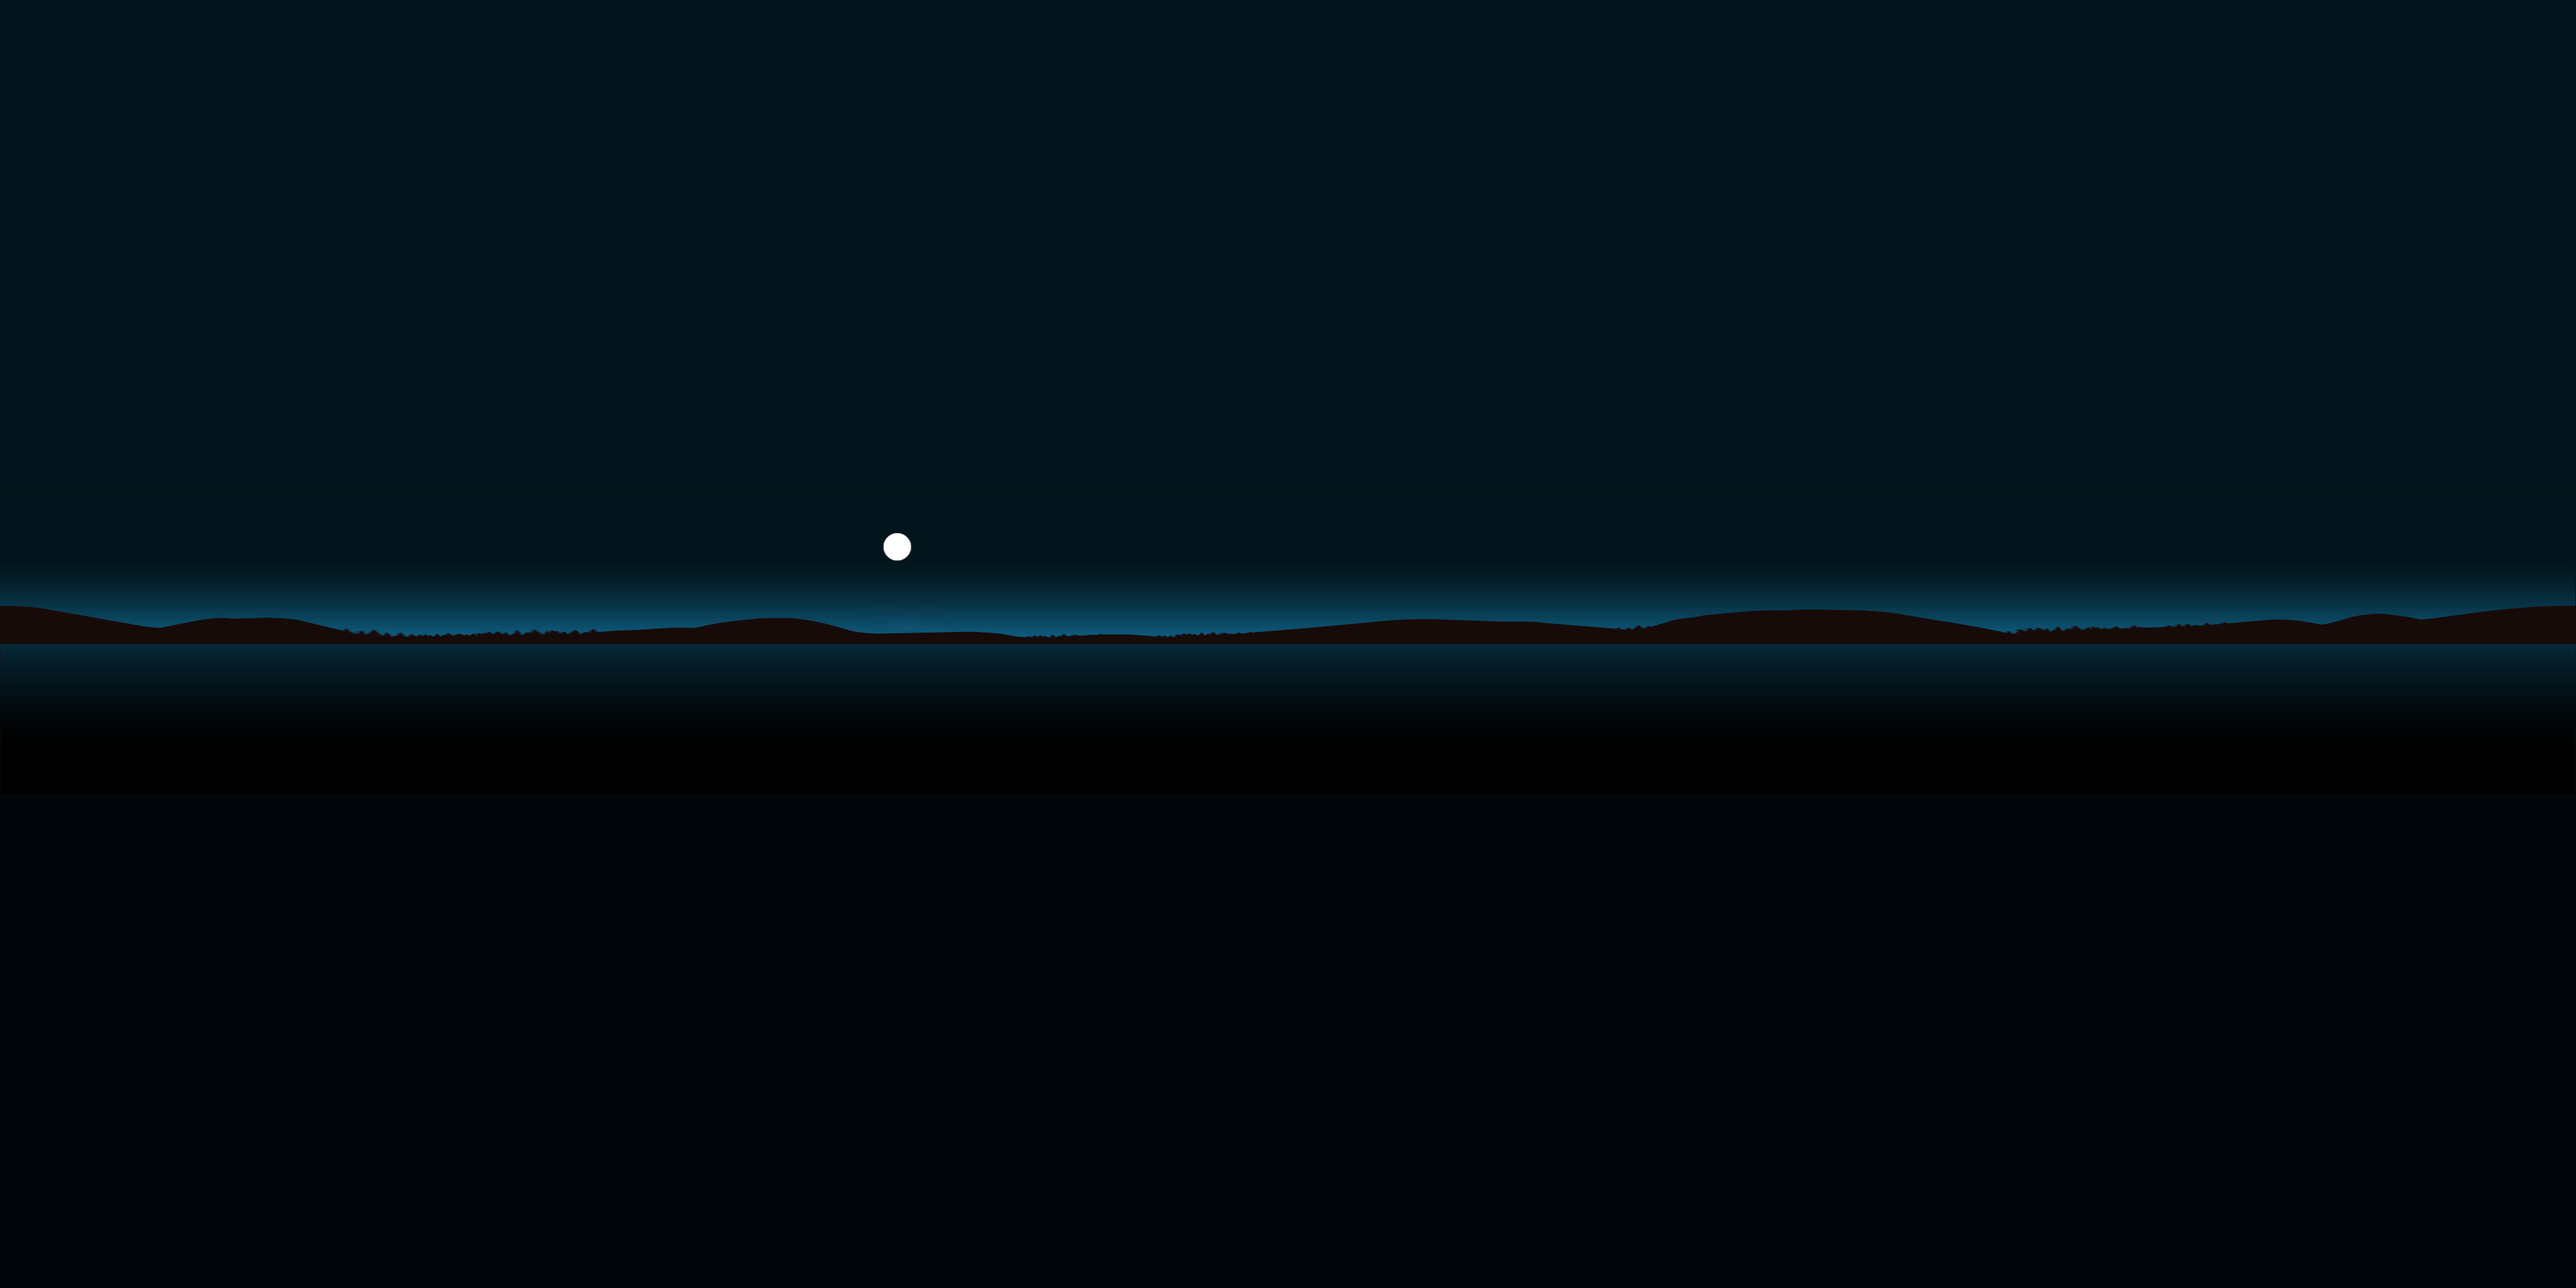
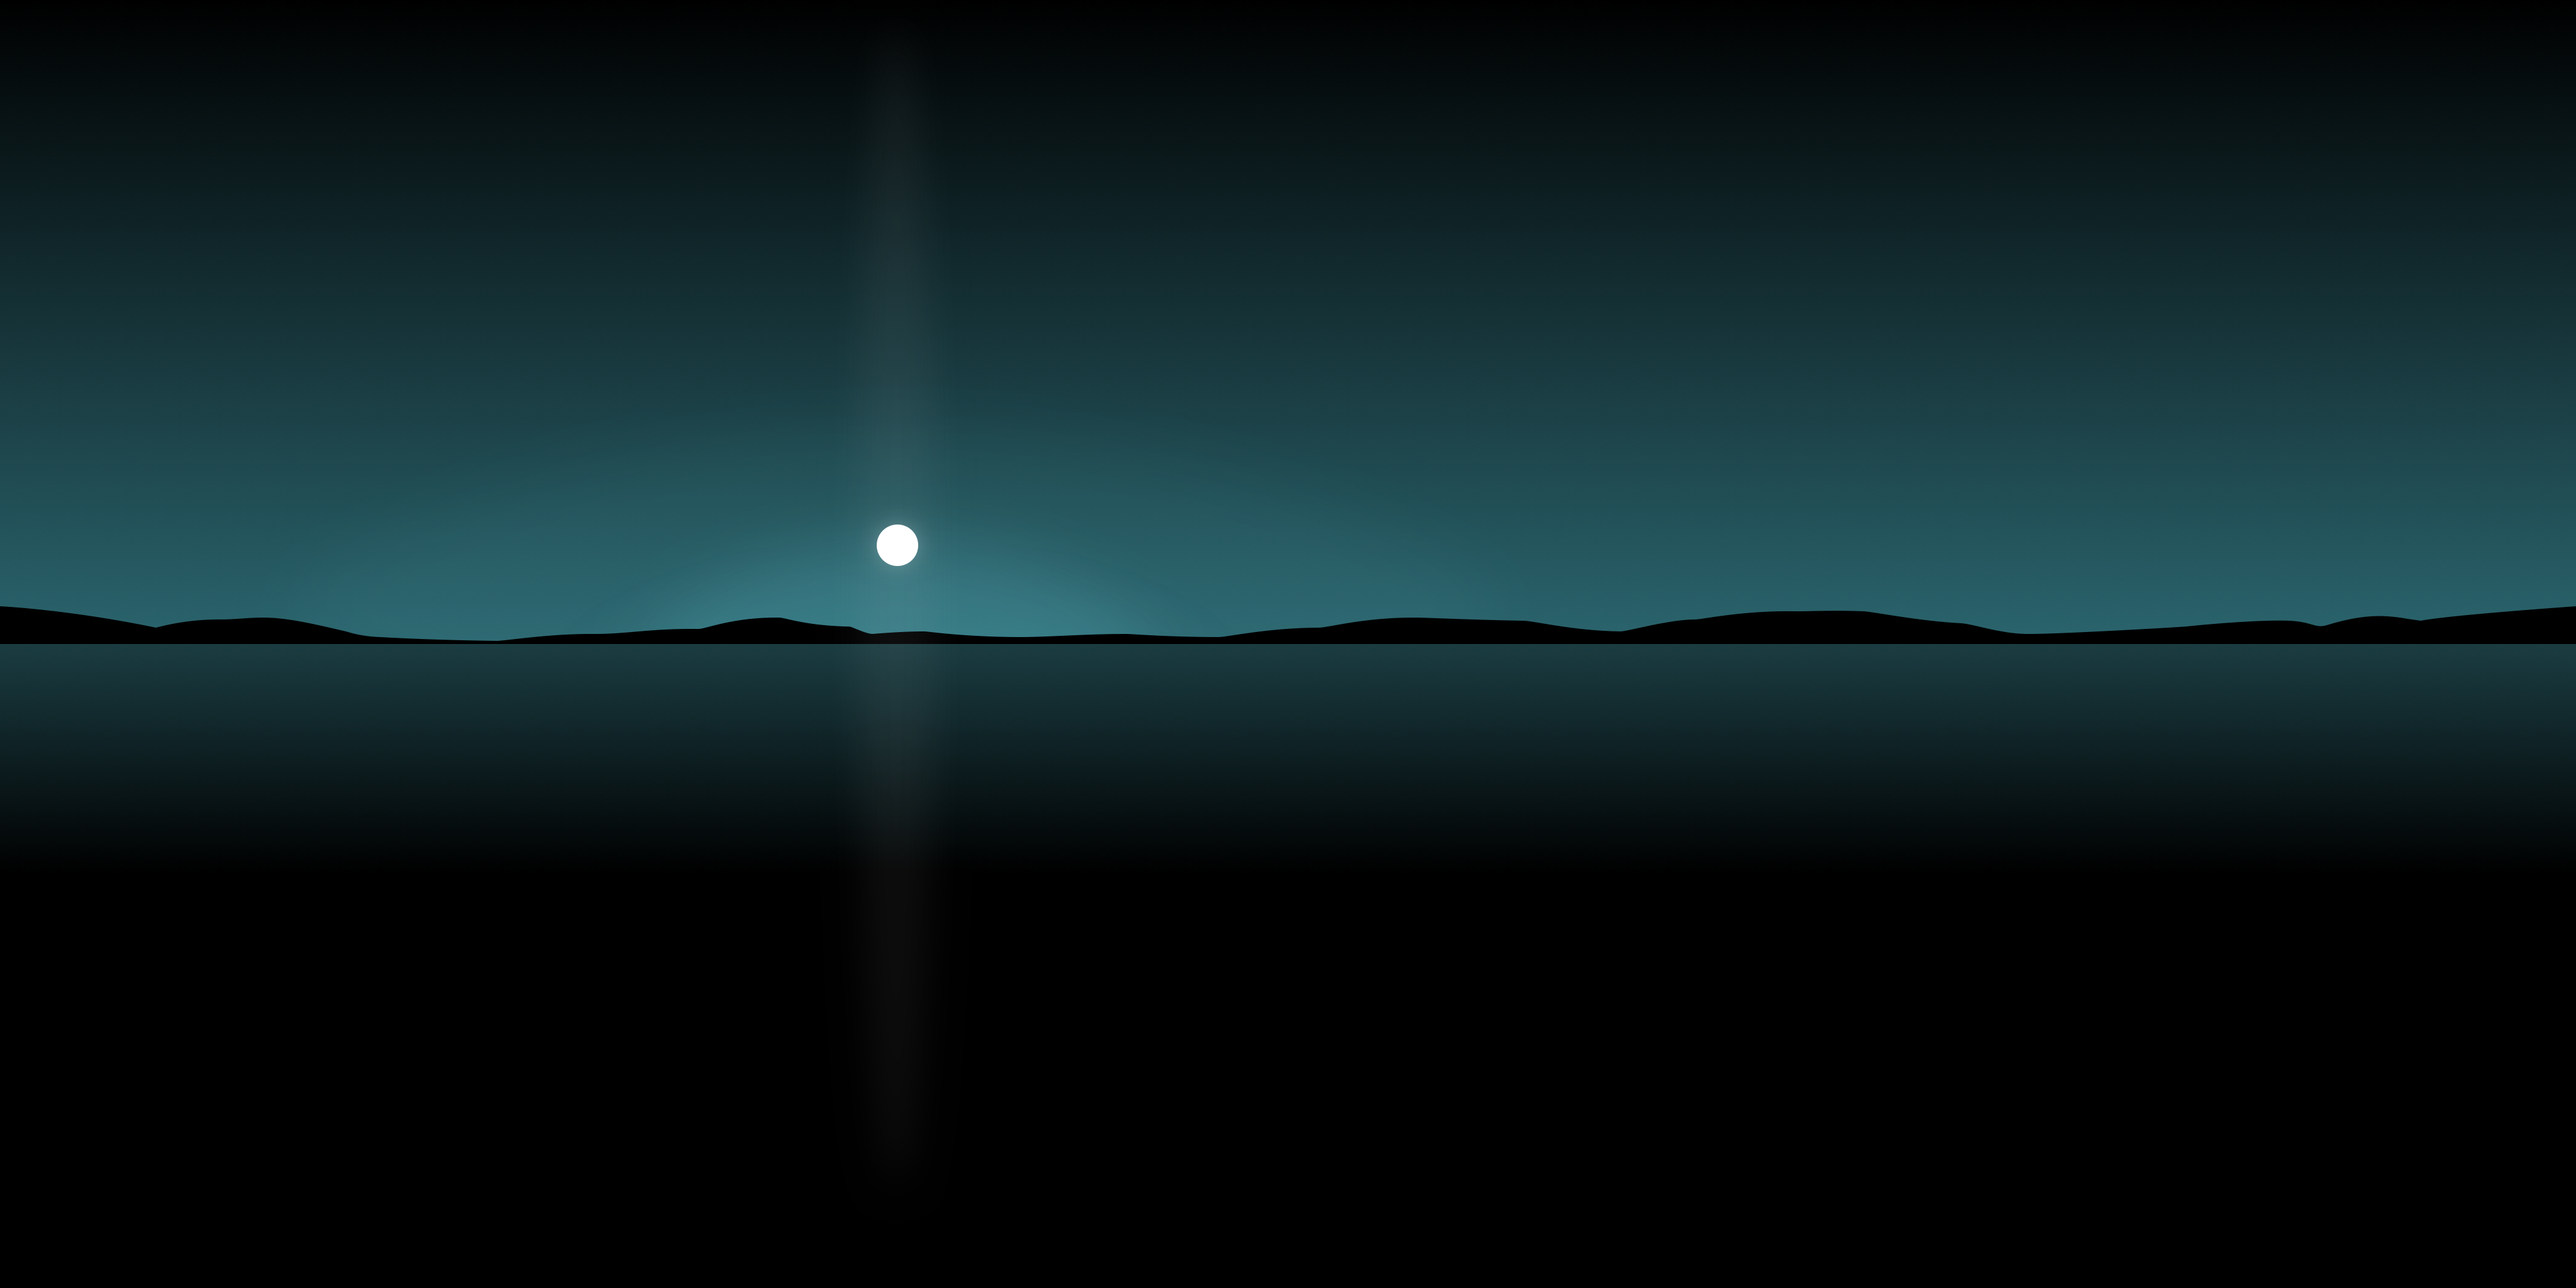
New archipelago.

diff --git a/main.js b/main.js
@@ -37,210 +37,183 @@ loader.load( 'beaches.obj', function ( obj ) {
 
 function runner() {
 
-var water, clock;
+  var water, clock;
 
-var params = {
-  color: '#eeeeef',
-  scale: 1,
-  flowX: 20,
-  flowY: 9
-};
+  var params = {
+    color: '#eeeeef',
+    scale: 100,
+    flowX: 20,
+    flowY: 20
+  };
 
-clock = new THREE.Clock();
+  clock = new THREE.Clock();
 
-sceneCube = new THREE.Scene();
+  sceneCube = new THREE.Scene();
 
-var textureLoader = new THREE.TextureLoader();
-textureEquirec = textureLoader.load( "skythin.png" );
-textureEquirec.mapping = THREE.EquirectangularReflectionMapping;
-textureEquirec.magFilter = THREE.LinearFilter;
-textureEquirec.minFilter = THREE.LinearMipMapLinearFilter;
-textureEquirec.encoding = THREE.sRGBEncoding;
+  var textureLoader = new THREE.TextureLoader();
+  textureEquirec = textureLoader.load( "skythin.png" );
+  textureEquirec.mapping = THREE.EquirectangularReflectionMapping;
+  textureEquirec.magFilter = THREE.LinearFilter;
+  textureEquirec.minFilter = THREE.LinearMipMapLinearFilter;
+  textureEquirec.encoding = THREE.sRGBEncoding;
 
-var equirectShader = THREE.ShaderLib[ "equirect" ];
+  var equirectShader = THREE.ShaderLib[ "equirect" ];
 
-var equirectMaterial = new THREE.ShaderMaterial( {
-  fragmentShader: equirectShader.fragmentShader,
-  vertexShader: equirectShader.vertexShader,
-  uniforms: equirectShader.uniforms,
-  depthWrite: false,
-  side: THREE.BackSide
-} );
+  var equirectMaterial = new THREE.ShaderMaterial( {
+    fragmentShader: equirectShader.fragmentShader,
+    vertexShader: equirectShader.vertexShader,
+    uniforms: equirectShader.uniforms,
+    depthWrite: false,
+    side: THREE.BackSide
+  } );
 
-equirectMaterial.uniforms[ "tEquirect" ].value = textureEquirec;
+  equirectMaterial.uniforms[ "tEquirect" ].value = textureEquirec;
 
-Object.defineProperty( equirectMaterial, 'map', {
+  Object.defineProperty( equirectMaterial, 'map', {
 
-  get: function () {
+    get: function () {
 
-    return this.uniforms.tEquirect.value;
+      return this.uniforms.tEquirect.value;
 
-  }
+    }
 
-} );
+  } );
 
-cubeMesh = new THREE.Mesh( new THREE.SphereBufferGeometry( 4000, 32, 32), equirectMaterial);
-cubeMesh.material = equirectMaterial;
-cubeMesh.visible = true;
+  cubeMesh = new THREE.Mesh( new THREE.SphereBufferGeometry( 4000, 32, 32), equirectMaterial);
+  cubeMesh.material = equirectMaterial;
+  cubeMesh.visible = true;
 
-var material = new THREE.MeshPhysicalMaterial( {
-  color: 0x040404,
-  metalness: 0.25,
-  roughness: 0.1,
-  clearCoat: 0.41 ,
-  clearCoatRoughness: 0.3 ,
-  reflectivity: 0.4,
-  envMap: textureEquirec
-});
-
-var material2 = new THREE.MeshPhysicalMaterial( {
-  color: 0x606060,
-  metalness: 0.05,
-  roughness: 0.9,
-  clearCoat: 0.0,
-  clearCoatRoughness: 0.2,
-  reflectivity: 0.1,
-  envMap: textureEquirec
-});
-
-const N = 256;
-const gData = {
-  nodes: [...Array(N).keys()].map(i => ({ id: i })),
-  links: [...Array(N).keys()]
-  .filter(id => id)
-  .map(id => ({
-    source: id,
-    target: Math.round(Math.random() * (id-1))
-  }))
-};
-
-
-
-const graph = ForceGraph3D()
-
-(document.getElementById('graph-3d'))
-  .graphData(gData)
-  .onNodeHover(node => document.getElementById('graph-3d').style.cursor = node ? 'pointer' : null)
-  .backgroundColor("#000000")
-  .showNavInfo(false)
-  .linkVisibility(false)
-  .onNodeClick(node => {
-    // Aim at node from outside it
-    const distance = 40;
-    const distRatio = 1 + distance/Math.hypot(node.x, node.y, node.z);
-
-    graph.cameraPosition(
-      { x: node.x * distRatio, y: node.y * distRatio, z: node.z * distRatio }, // new position
-      node, // lookAt ({ x, y, z })
-      3000  // ms transition duration
-    );
+  var material = new THREE.MeshPhysicalMaterial( {
+    color: 0x010101,
+    metalness: 0.25,
+    roughness: 0.6,
+    clearCoat: 0.41 ,
+    clearCoatRoughness: 0.3 ,
+    reflectivity: 0.2,
+    envMap: textureEquirec
   });
 
-var zNear = 10;
-var zFar = 3500000;
+  var material2 = new THREE.MeshPhysicalMaterial( {
+    color: 0x606060,
+    metalness: 0.05,
+    roughness: 0.9,
+    clearCoat: 0.0,
+    clearCoatRoughness: 0.2,
+    reflectivity: 0.1,
+    envMap: textureEquirec
+  });
 
-var cam = graph.camera();
-cam.far = (zFar);
-cam.near = (zNear);
-cam.aspect = (window.innerWidth / window.innerHeight);
-cam.updateProjectionMatrix();
-
-
-
-const planeGeometry = new THREE.PlaneGeometry(1000, 1000, 1, 1);
-const planeMaterial = new THREE.MeshLambertMaterial({color: 0xFF0000, side: THREE.DoubleSide});
-// Add the island.
-const mesh = new THREE.Mesh(planeGeometry, material);
-mesh.position.set(-100, -200, -100);
-mesh.rotation.set(0.5 * Math.PI, 0, 0);
-
-var ambient = new THREE.AmbientLight( 0xffffff );
-scene.add( ambient );
-
-var size = 8000;
-var divisions = 100;
-
-var gridHelper = new THREE.GridHelper( size, divisions, 0x999999, 0x999999 );
-var geometry = new THREE.CircleGeometry( 4000, 128 );
-
-var directionalLight = new THREE.DirectionalLight( 0xffffff, 1.0 );
-directionalLight.position.set( 2000 * 2, 500 * 2, -2000 * 2);
-scene.add( directionalLight );
-
-//var circle = new THREE.Mesh( geometry, material );
-//:	var waterGeometry = new THREE.PlaneBufferGeometry( 4000, 4000 );
-/*
-water2 = new THREE.Water( geometry, {
-        color: params.color,
-        scale: params.scale,
-        flowDirection: new THREE.Vector2( params.flowX, params.flowY ),
-        textureWidth: 1024,
-        textureHeight: 1024
-      } );
-
-water2.position.y = -0.01;
-water2.rotation.x = Math.PI *  0.5;
-
-water = new THREE.Water( geometry, {
-        color: params.color,
-        scale: params.scale,
-        flowDirection: new THREE.Vector2( params.flowX, params.flowY ),
-        textureWidth: 1024,
-        textureHeight: 1024
-      } );
-
-water.position.y = 0.01;
-water.rotation.x = Math.PI * - 0.5;
-*/
-water = new THREE.Water(
-  geometry,
-  {
-    textureWidth: 512,
-    textureHeight: 512,
-    waterNormals: new THREE.TextureLoader().load( 'waternormals.jpg', function ( texture ) {
-      texture.wrapS = texture.wrapT = THREE.RepeatWrapping;
-    } ),
-    alpha: 0.5,
-    //sunDirection: //new THREE.Vector3( 2000, 2000, 2000 ).normalize(), //Math.PI/2, //light.position.clone().normalize(),
-    sunDirection: directionalLight.position.clone().normalize(),
-    sunColor: 0xffffff,
-    waterColor: 0x000001,
-    distortionScale: 6.7,
-    fog: scene.fog !== undefined
-  }
-);
-water.rotation.x = - Math.PI / 2;
-
-water2 = new THREE.Water(
-  geometry,
-  {
-    textureWidth: 512,
-    textureHeight: 512,
-    waterNormals: new THREE.TextureLoader().load( 'waternormals.jpg', function ( texture ) {
-      texture.wrapS = texture.wrapT = THREE.RepeatWrapping;
-    } ),
-    alpha: 0.3,
-    sunDirection: directionalLight.position.clone().normalize(),
-    sunColor: 0xffffff,
-    waterColor: 0x000000,
-    distortionScale: 6.7,
-    fog: scene.fog !== undefined
-  }
-);
-water2.position.y = -0.01;
-water2.rotation.x = Math.PI / 2;
+  const N = 256;
+  const gData = {
+    nodes: [...Array(N).keys()].map(i => ({ id: i })),
+    links: [...Array(N).keys()]
+    .filter(id => id)
+    .map(id => ({
+      source: id,
+      target: Math.round(Math.random() * (id-1))
+    }))
+  };
 
 
-//circle.rotation.set( -(Math.PI / 2), 0, 0);
 
-gridHelper.position.set(0,0,0);
+  const graph = ForceGraph3D()
 
-//scene.add( circle );
-//scene.add( gridHelper );
-graph.scene().add(cubeMesh);
-scene.add( water );
-scene.add( water2 );
-scene.fog = new THREE.FogExp2( 0x000000, 0.00005, 20000);
+  (document.getElementById('graph-3d'))
+    .graphData(gData)
+    .onNodeHover(node => document.getElementById('graph-3d').style.cursor = node ? 'pointer' : null)
+    .backgroundColor("#000000")
+    .showNavInfo(false)
+    .linkVisibility(false)
+    .onNodeClick(node => {
+      // Aim at node from outside it
+      const distance = 40;
+      const distRatio = 1 + distance/Math.hypot(node.x, node.y, node.z);
+
+      graph.cameraPosition(
+        { x: node.x * distRatio, y: node.y * distRatio, z: node.z * distRatio }, // new position
+        node, // lookAt ({ x, y, z })
+        3000  // ms transition duration
+      );
+    });
+
+  var zNear = 10;
+  var zFar = 3500000;
+
+  var cam = graph.camera();
+  cam.far = (zFar);
+  cam.near = (zNear);
+  cam.aspect = (window.innerWidth / window.innerHeight);
+  cam.updateProjectionMatrix();
+
+
+
+  const planeGeometry = new THREE.PlaneGeometry(1000, 1000, 1, 1);
+  const planeMaterial = new THREE.MeshLambertMaterial({color: 0xFF0000, side: THREE.DoubleSide});
+  // Add the island.
+  const mesh = new THREE.Mesh(planeGeometry, material);
+  mesh.position.set(-100, -200, -100);
+  mesh.rotation.set(0.5 * Math.PI, 0, 0);
+
+  var ambient = new THREE.AmbientLight( 0xffffff );
+  scene.add( ambient );
+
+  var size = 8000;
+  var divisions = 100;
+
+  var gridHelper = new THREE.GridHelper( size, divisions, 0x999999, 0x999999 );
+  var geometry = new THREE.CircleGeometry( 4000, 128 );
+
+  var directionalLight = new THREE.DirectionalLight( 0x666666, 1.0 );
+  directionalLight.position.set( 2000 * 2, 500 * 2, -2000 * 2);
+  scene.add( directionalLight );
+
+  water = new THREE.Water(
+    geometry,
+    {
+      textureWidth: 512,
+      textureHeight: 512,
+      waterNormals: new THREE.TextureLoader().load( 'waternormals.jpg', function ( texture ) {
+        texture.wrapS = texture.wrapT = THREE.RepeatWrapping;
+      } ),
+      alpha: 0.5,
+      //sunDirection: //new THREE.Vector3( 2000, 2000, 2000 ).normalize(), //Math.PI/2, //light.position.clone().normalize(),
+      sunDirection: directionalLight.position.clone().normalize(),
+      sunColor: 0xffffff,
+      waterColor: 0x000001,
+      distortionScale: 60.7,
+      fog: scene.fog !== undefined
+    }
+  );
+
+  water.rotation.x = - Math.PI / 2;
+
+  water2 = new THREE.Water(
+    geometry,
+    {
+      textureWidth: 512,
+      textureHeight: 512,
+      waterNormals: new THREE.TextureLoader().load( 'waternormals.jpg', function ( texture ) {
+        texture.wrapS = texture.wrapT = THREE.RepeatWrapping;
+      } ),
+      alpha: 0.3,
+      sunDirection: directionalLight.position.clone().normalize(),
+      sunColor: 0xffffff,
+      waterColor: 0x000000,
+      distortionScale: 6.7,
+      fog: scene.fog !== undefined
+    }
+  );
+
+  water2.position.y = -0.01;
+  water2.rotation.x = Math.PI / 2;
+
+  gridHelper.position.set(0,0,0);
+  //scene.add( gridHelper );
+
+  graph.scene().add(cubeMesh);
+  scene.add( water );
+  scene.add( water2 );
+  scene.fog = new THREE.FogExp2( 0x000000, 0.00005, 20000);
 
   object.traverse( function ( child ) {
 
